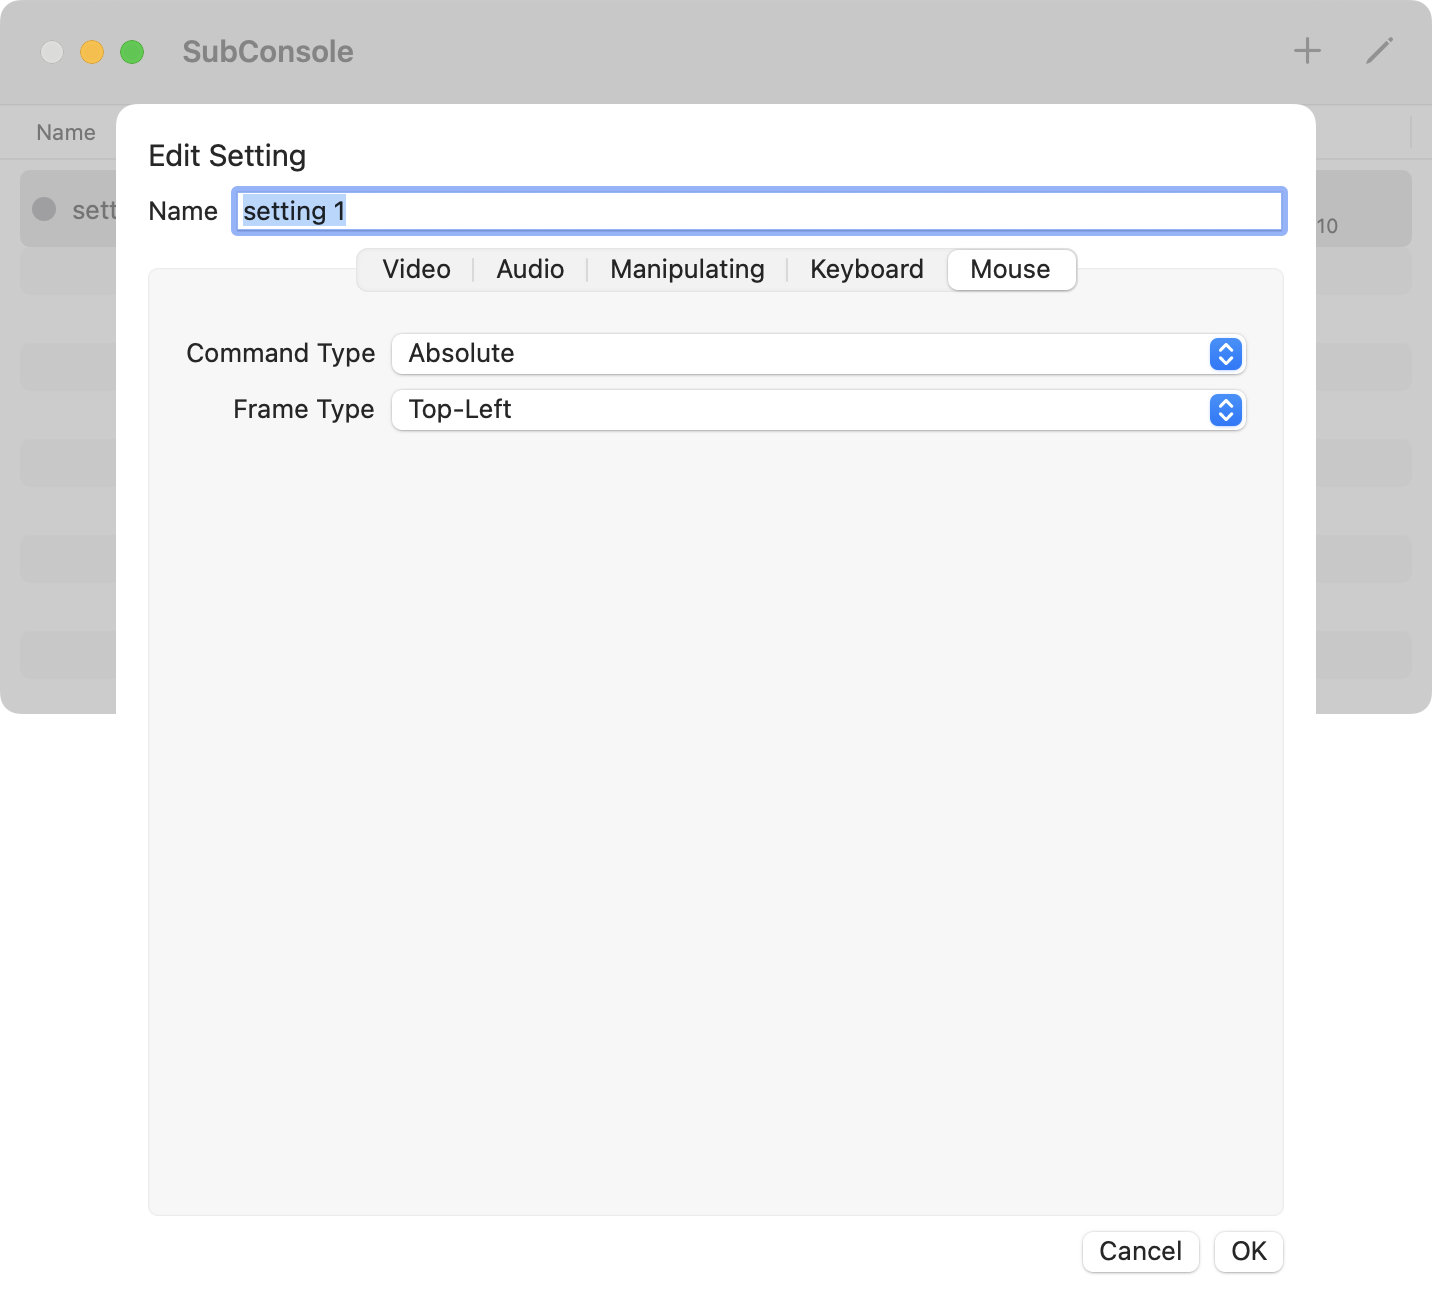
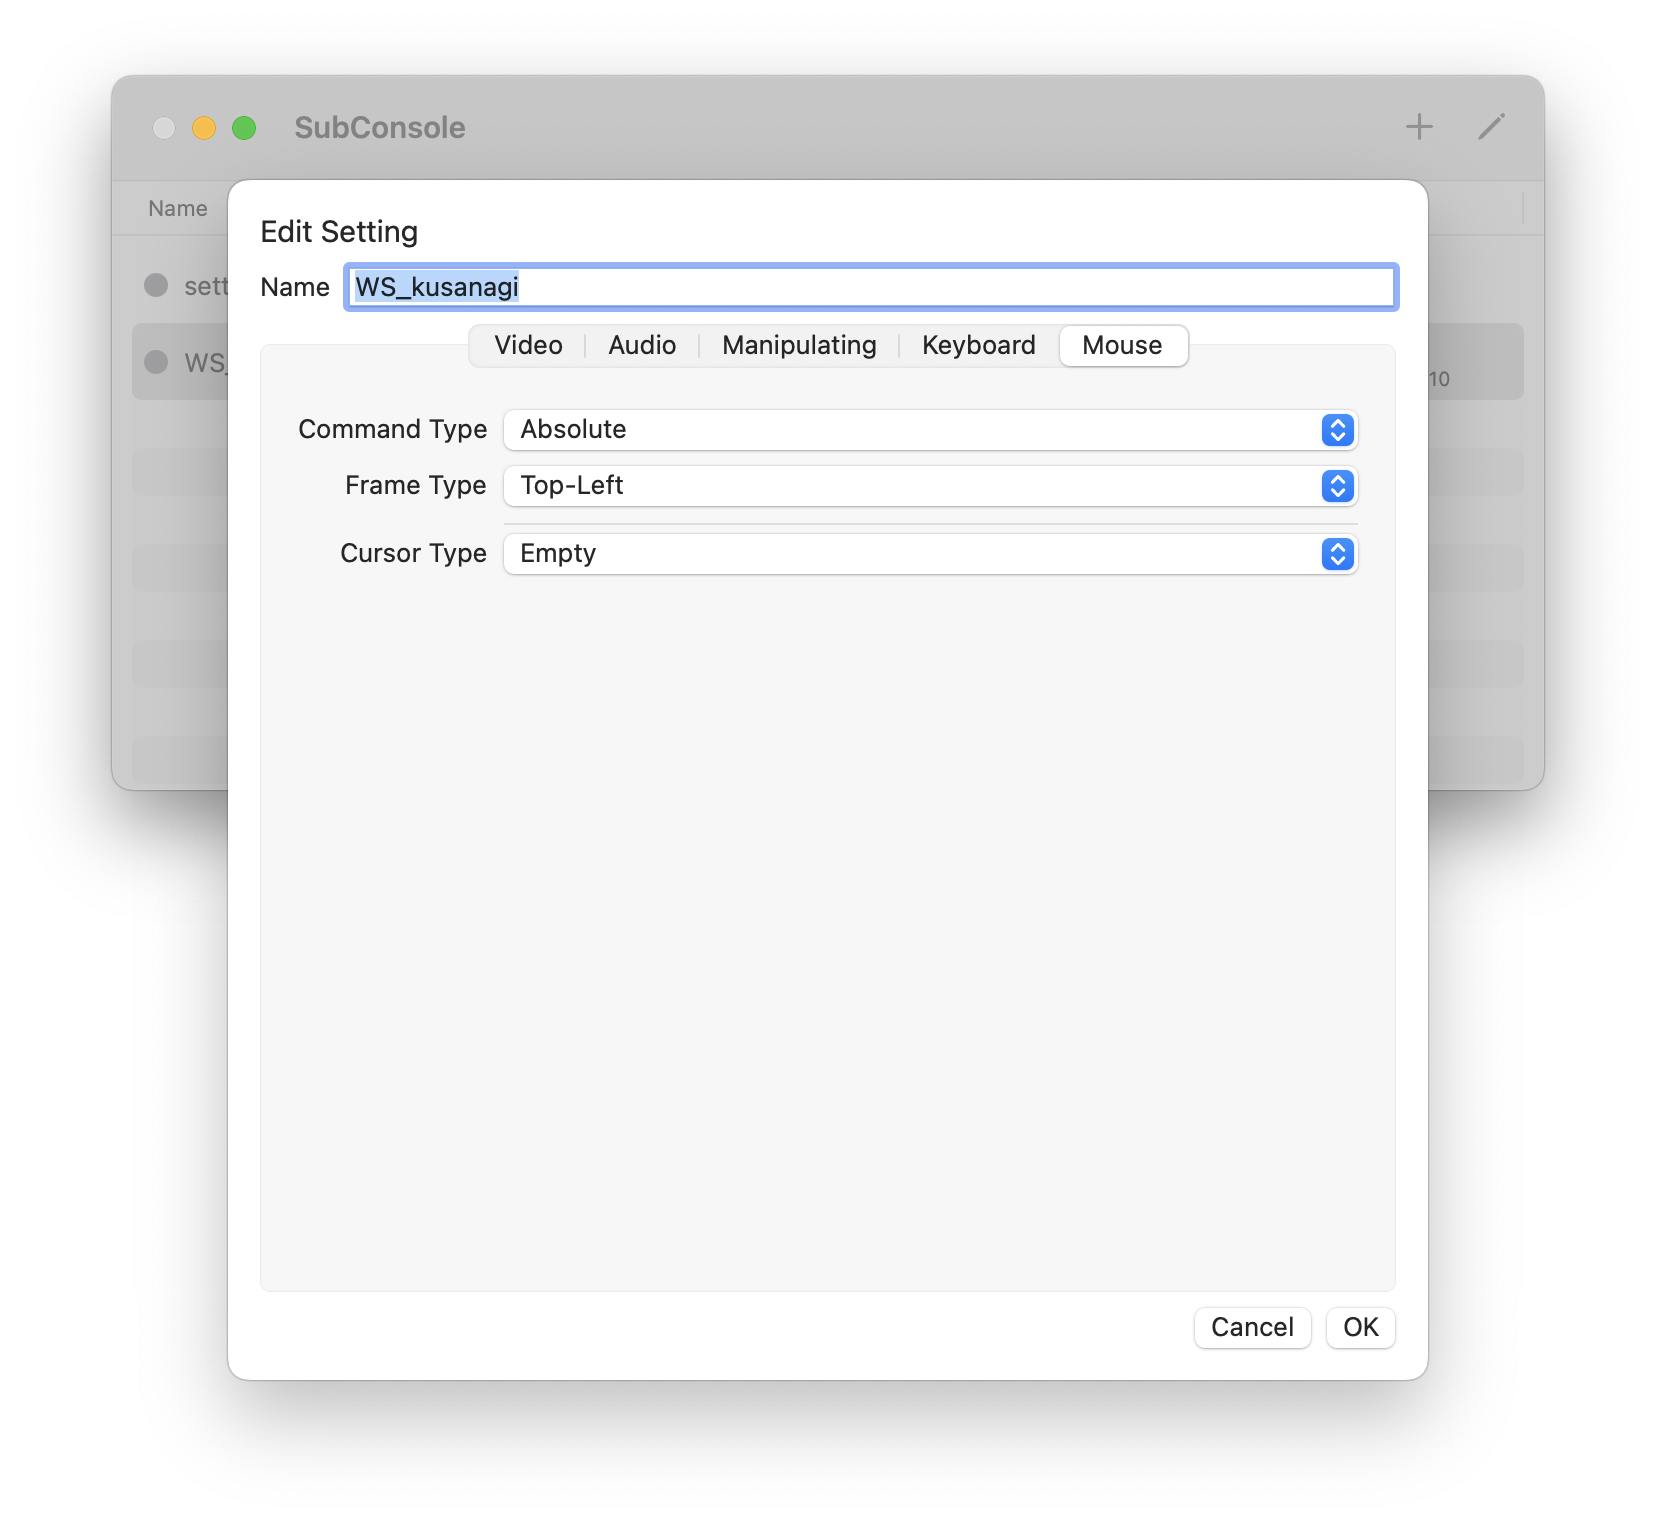
update README.md

Changed region(s): [[0.0, 0.0, 1.0, 0.5828], [0.1536, 0.8589, 0.8603, 0.9816], [0.8603, 0.9509, 0.8911, 0.9816]]

diff --git a/Source/Model/ConsoleSettingV2.swift b/Source/Model/ConsoleSettingV2.swift
@@ -2,7 +2,7 @@
 //  ConsoleSettingV2.swift
 //  SubConsole
 //
-//  Created by 池間たけひと on 2025/04/23.
+//  © 2025 TAKEHITO IKEMA
 //
 import Foundation
 import SwiftData

diff --git a/README_jp.md b/README_jp.md
@@ -1,3 +1,8 @@
+---
+title: SubConsole
+description: 外部端末の画面表示と操作環境を提供する MacOS アプリケーション
+lang: ja
+---
 # SubConsole
 
 SubConsoleは、外部端末の画面表示と操作環境を提供する MacOS アプリケーションです。
@@ -164,6 +169,12 @@ N/A
 マウスカーソルの座標の種類を選択します。
 - "Top-Left"の場合、絶対座標指示の場合、画面の左上隅を原点とし、右方向に行くほどX座標値が大きくなり、下方向に行くほどY座標値が大きくなります。相対座標指示の場合、マウスカーソルが画面の右方向に行くとX方向移動量を大きくなり、画面の下方向に行くほどY方向移動量が大きくなります。
 - "Bottom-Left"の場合で、絶対座標指示の場合、画面の左下隅を原点とし、右方向に行くほどX座標値が大きくなり、上方向に行くほどY座標値が大きくなります。相対座標指示の場合、マウスカーソルが画面の右方向に行くとX方向移動量が大きくなり、画面の上方向に行くほどY方向移動量が大きくなります。
+
+#### Cursor Type
+マウスカーソル表示の種類を選択します。
+- "System Default"の場合、Mac OSが表示するカーソルは通常の状態です。このとき画面には、Mac OSが表示するマウスカーソルと、ゲスト端末が表示するマウスカーソルのどちらも表示されます。
+- "Dot"の場合、Mac OSが表示するカーソルは、小さなドット形状に変わります。
+- "Empty"の場合、カーソルは非表示になります。画面には、ゲスト端末が表示するマウスカーソルだけが表示されます。
 
 
 

diff --git a/README.md b/README.md
@@ -1,6 +1,11 @@
+---
+title: SubConsole
+description: MacOS application that provides screen display and operating environment for external devices
+lang: en-US
+---
 # SubConsole
 
-SubConsole is MacOS Application which provides display and manipulation environment.
+SubConsole is MacOS Application which provides screen display and operating environment for external devices.
 
 
 English / [日本語](https://ikemax2.github.io/SubConsole/README_jp.html)
@@ -186,5 +191,12 @@ Select the frame type for mouse cursor location.
 - When "Bottom-Left" is selected, in case of "Absolute" command type, the origin is the lower left corner of the screen, and the X coordinate value increases as you go to the right, and the Y coordinate value increases as you go up. In case of "Relative" command type, the amount of movement in the X direction increases as the mouse cursor moves to the right of the screen, and the amount of movement in the Y direction increases as the mouse cursor moves upward on the screen.
 
 
+#### Cursor Type
+Select display type for mouse cursor.
 
-　　
+- When "System Default" is selected, the cursor displayed by Mac OS is normal. At this point, both the mouse cursor displayed by Mac OS and the mouse cursor displayed by the guest terminal will be displayed on the screen.
+
+- When "Dot" is selected, the cursor displayed by Mac OS is changed to small dot shape. 
+
+- When "Empty" is selected, the cursor will not displayed on the screen by Mac OS. Only the mouse cursor displayed by the guest terminal will appear on the screen.
+
